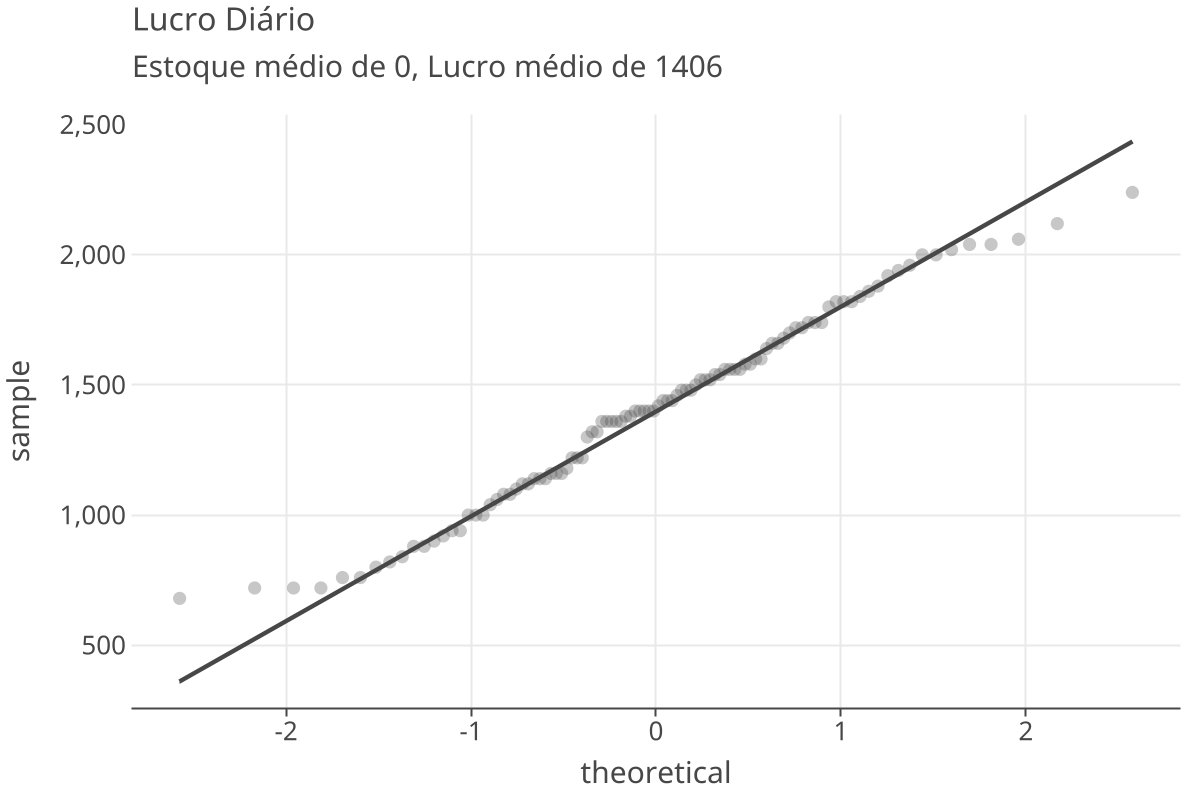
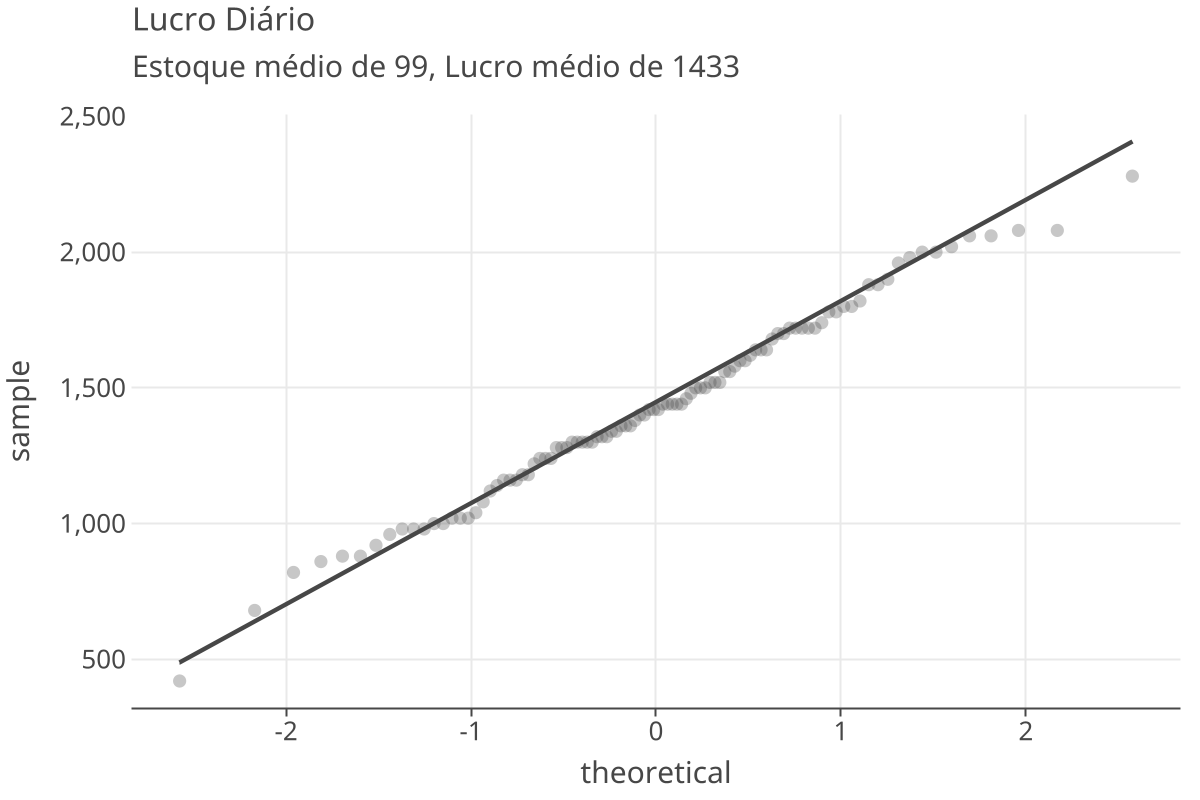
fix media de clientes do poisson no Q2

diff --git a/src/main/kotlin/Q2.kt b/src/main/kotlin/Q2.kt
@@ -1,31 +1,42 @@
 fun Q2main() {
     val totalSims = 100
 
-    val probabilidades = cumulativeProbabilities(3.0, 7)
-    val clientes = List(totalSims) { getQntCliente(probabilidades, 8) }
+    val probabilidades = cumulativeProbabilities(2.6, 8)
+    val clientesNoDia = List(totalSims) { getQntCliente(probabilidades, 8) }
     val produtosProduzidos = List(totalSims) { getProdutosProduzidos() }
 
     var estoque = 0
-    var lucroMedio = 0
+    var lucro = 0
     val lucroDiario: ArrayList<Int> = ArrayList()
 
-    for(index in 0..< totalSims) {
-        estoque += produtosProduzidos[index];
-        var lucro = 0
-        for (cliente in 0..clientes[index]) {
+    for(dia in 0..< totalSims) {
+        val recebimento = produtosProduzidos[dia];
+        estoque += recebimento
+        var lucroDoDia = 0
+        var vendas = 0
+        for (cliente in 0..clientesNoDia[dia]) {
             if(estoque == 0)
                 continue
             if (isClienteGettingProduto()) {
                 estoque -= 1
-                lucro += 100
+                lucroDoDia += 100
+                vendas += 1
             } else {
-                lucro -= 40
+                lucroDoDia -= 40
             }
         }
-        lucroMedio+=lucro
-        lucroDiario.add(lucro)
+        lucro+=lucroDoDia
+        lucroDiario.add(lucroDoDia)
+//        println("Recebido: $recebimento | Vendas: $vendas | Estoque: $estoque | Lucro: $lucro | Lucro Diario: $lucroDoDia | Clientes do dia: ${clientesNoDia[dia]}")
     }
-    plotQQ(totalSims, lucroDiario, "q2-lucroDiario", "Lucro Diário", "Estoque médio de %d, Lucro médio de %d".format(estoque/totalSims, lucroMedio/totalSims))
+
+    println("Média clientes: ${ clientesNoDia.reduce { acc, i -> acc + i } / totalSims }")
+
+    plotQQ(totalSims,
+        lucroDiario,
+        "q2-lucroDiario",
+        "Lucro Diário",
+        "Estoque final de %d, Lucro diário médio de %d".format(estoque, lucro/totalSims))
 }
 
 fun isClienteGettingProduto(): Boolean {
